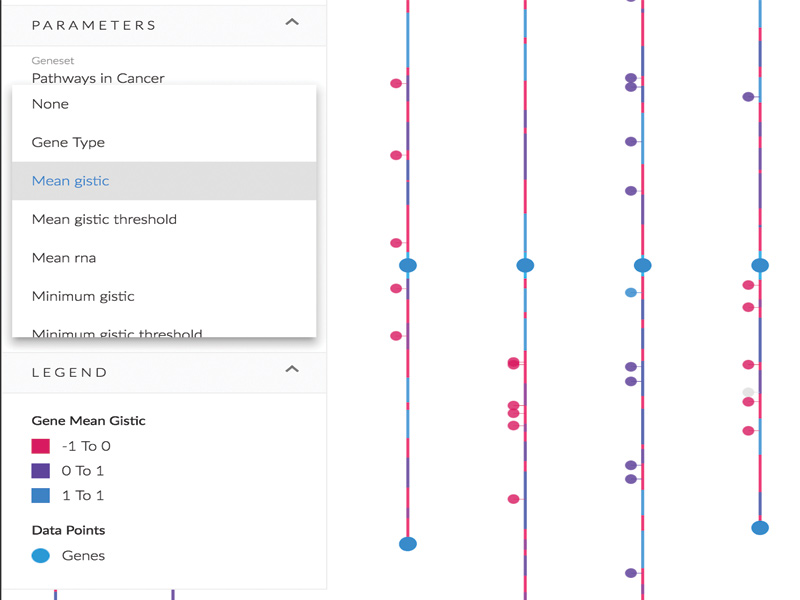
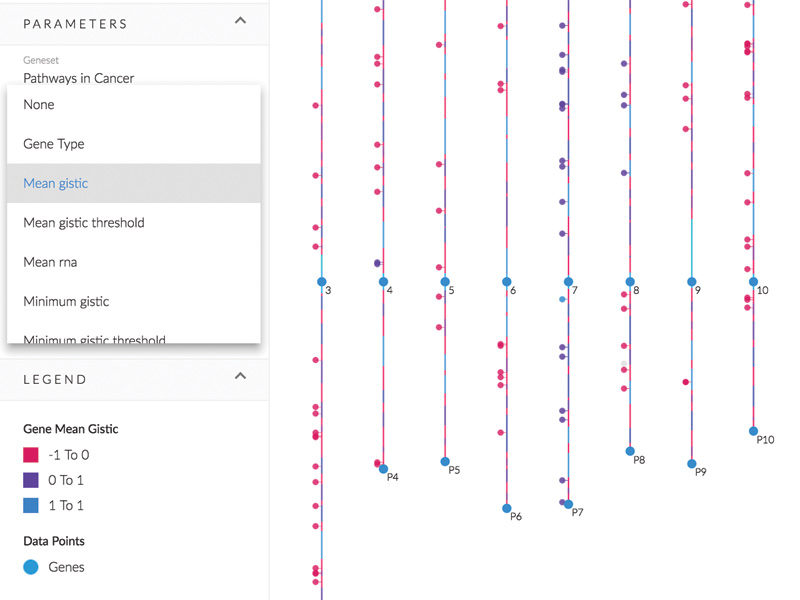
tips

diff --git a/src/app/service/data.service.ts b/src/app/service/data.service.ts
@@ -107,7 +107,7 @@ export class DataService {
 
     // Make map from VisualizationEnum To FileName
     // const jsonFile = this.getJsonFileFromVisualization(v);
-    const jsonFile = 'genome.json';
+    const jsonFile = 'clustering.json';
     return fetch('./assets/tips/' + jsonFile, requestInit).then(res => res.json());
   }
 
